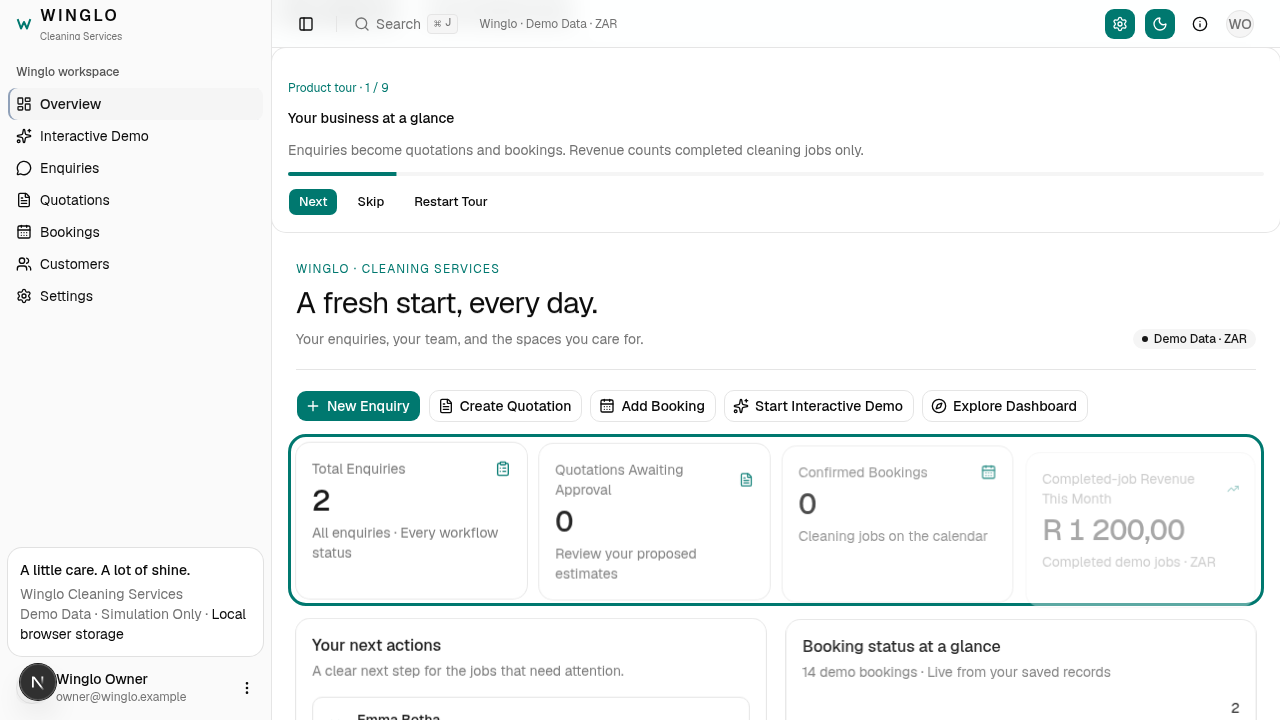
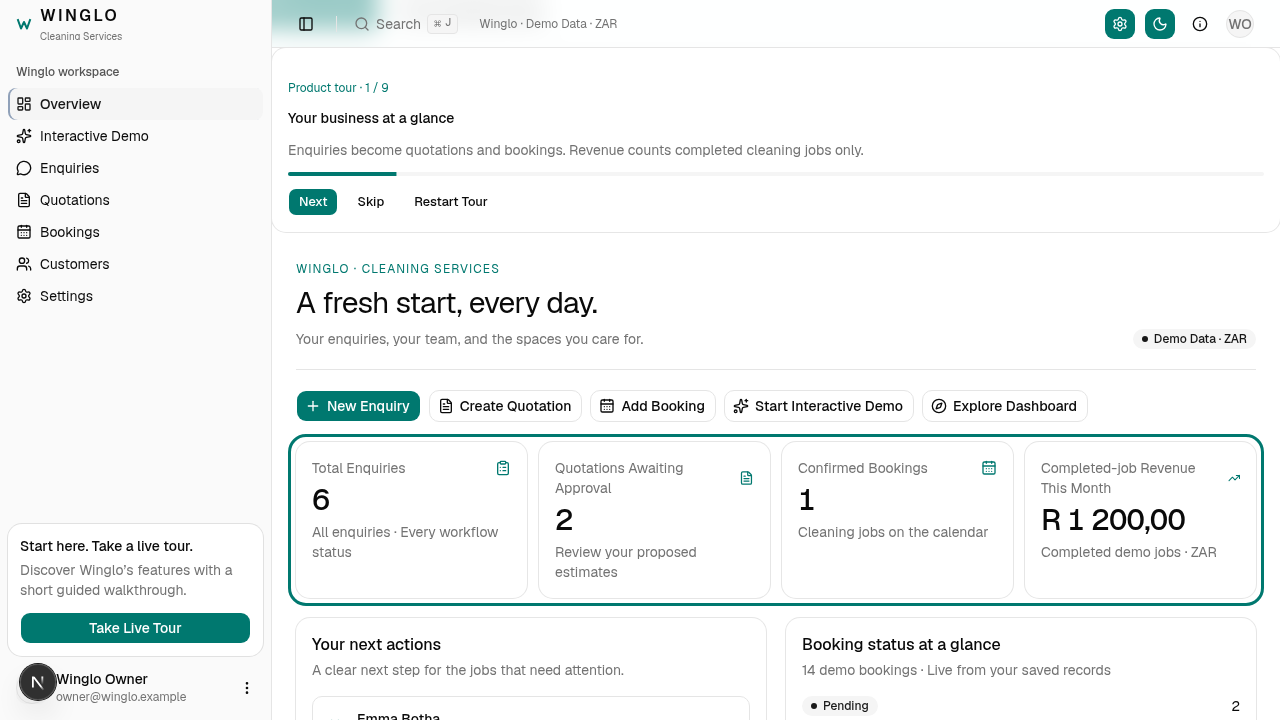
fix: emphasize live tour entry and keep tour above calendar

diff --git a/src/app/(main)/dashboard/_components/winglo/product-tour.tsx b/src/app/(main)/dashboard/_components/winglo/product-tour.tsx
@@ -65,7 +65,7 @@ const steps = [
     text: "Keep exploring, restart this tour or resume your interactive demo. Your business records are preserved.",
   },
 ];
-type Tour = { step: number; open: boolean; participating: boolean };
+type Tour = { step: number; open: boolean; participating: boolean; seen?: boolean };
 const initial: Tour = { step: 0, open: false, participating: false };
 export function ProductTour() {
   const [tour, setTour] = useState<Tour>(initial);
@@ -128,9 +128,18 @@ export function ProductTour() {
   }, [tour.open, tour.participating, pathname, step]);
   function go(index: number) {
     if (useDemo.getState().journey?.active) useDemo.getState().patchJourney({ minimized: true });
-    setTour({ step: index, open: true, participating: false });
+    setTour({ step: index, open: true, participating: false, seen: true });
     router.push(`/dashboard/${steps[index].route}`);
   }
+  useEffect(() => {
+    const open = () => {
+      if (useDemo.getState().journey?.active) useDemo.getState().patchJourney({ minimized: true });
+      setTour((current) => ({ ...current, open: true, seen: true, participating: false }));
+      router.push(`/dashboard/${steps[tour.step].route}`);
+    };
+    window.addEventListener("winglo:open-product-tour", open);
+    return () => window.removeEventListener("winglo:open-product-tour", open);
+  }, [router, tour.step]);
   function live() {
     useDemo.getState().startJourney();
     if (tour.open) setTour({ ...tour, step: 3, participating: true });
@@ -138,16 +147,37 @@ export function ProductTour() {
   }
   return (
     <>
-      <div className="mx-4 flex flex-wrap gap-2 py-2">
-        <Button size="sm" variant="outline" onClick={() => go(tour.step)}>
-          Take a Guided Tour
-        </Button>
-        <Button size="sm" variant="ghost" data-product-demo onClick={live}>
-          Try the Interactive Demo
-        </Button>
-      </div>
+      {loaded && !tour.seen && !tour.open && pathname === "/dashboard/default" ? (
+        <section className="mx-4 my-4" aria-label="Welcome to Winglo">
+          <Card>
+            <CardContent className="flex flex-col items-start gap-4 py-8">
+              <p className="text-primary text-xs font-medium tracking-widest uppercase">Welcome to Winglo</p>
+              <h1 className="text-3xl tracking-tight">Start with a live tour.</h1>
+              <p className="text-muted-foreground max-w-lg text-sm">
+                We’ll show you how enquiries, quotations, cleaning bookings and customer records fit together. Follow
+                the highlights at your own pace.
+              </p>
+              <Button className="min-h-12 px-6" onClick={() => go(0)}>
+                Take Live Tour
+              </Button>
+              <Button variant="ghost" size="sm" onClick={() => setTour({ ...tour, seen: true })}>
+                Explore dashboard instead
+              </Button>
+            </CardContent>
+          </Card>
+        </section>
+      ) : (
+        <div className="mx-4 flex flex-wrap gap-2 py-2">
+          <Button size="sm" onClick={() => go(tour.step)}>
+            Take Live Tour
+          </Button>
+          <Button size="sm" variant="ghost" data-product-demo onClick={live}>
+            Try the Interactive Demo
+          </Button>
+        </div>
+      )}
       {tour.open && (
-        <section data-product-tour aria-label="Product tour" className="sticky top-12 mx-4 mb-4">
+        <section data-product-tour aria-label="Product tour" className="sticky top-12 z-40 mx-4 mb-4">
           <Card>
             <CardContent
               className="flex flex-col gap-3 pt-4"

diff --git a/src/app/(main)/dashboard/_components/sidebar/support-card.tsx b/src/app/(main)/dashboard/_components/sidebar/support-card.tsx
@@ -1,14 +1,15 @@
+"use client";
+import { Button } from "@/components/ui/button";
 import { Card, CardDescription, CardHeader, CardTitle } from "@/components/ui/card";
 export function SupportCard() {
   return (
     <Card size="sm" className="group-data-[collapsible=icon]:hidden">
       <CardHeader>
-        <CardTitle className="text-sm">A little care. A lot of shine.</CardTitle>
-        <CardDescription>
-          Winglo Cleaning Services
-          <br />
-          Demo Data · Simulation Only · <span className="text-foreground">Local browser storage</span>
-        </CardDescription>
+        <CardTitle className="text-sm">Start here. Take a live tour.</CardTitle>
+        <CardDescription>Discover Winglo’s features with a short guided walkthrough.</CardDescription>
+        <Button className="mt-2 w-full" onClick={() => window.dispatchEvent(new Event("winglo:open-product-tour"))}>
+          Take Live Tour
+        </Button>
       </CardHeader>
     </Card>
   );

diff --git a/src/app/(main)/dashboard/layout.tsx b/src/app/(main)/dashboard/layout.tsx
@@ -74,7 +74,7 @@ export default async function Layout({ children }: Readonly<{ children: ReactNod
         </header>
         <ProductTour />
         {/* Pages can set data-content-padding="false" to render full-bleed app layouts. */}
-        <div className="min-h-0 min-w-0 flex-1 overflow-x-hidden p-4 has-data-[content-padding=false]:p-0 md:p-6 md:has-data-[content-padding=false]:p-0">
+        <div className="relative isolate z-0 min-h-0 min-w-0 flex-1 overflow-x-hidden p-4 has-data-[content-padding=false]:p-0 md:p-6 md:has-data-[content-padding=false]:p-0">
           <AnimatedPage>{children}</AnimatedPage>
         </div>
         <JourneyPanel />

diff --git a/README.md b/README.md
@@ -86,6 +86,8 @@ The original MIT notice remains in [LICENSE](LICENSE), with a distribution copy 
 
 ## Optional product tour
 
-**Take a Guided Tour** opens an independent tour of the real dashboard. **Try the Interactive Demo** opens the existing live workflow. The tour stores only its own position/visibility in `winglo-product-tour`; Back, Skip and Restart never reset business records or guided-demo progress. An optional live-demo step explains the handoff and lets you return to the product tour afterward. Missing targets show a fallback action; phone layouts wrap the compact controls, and tour scrolling respects reduced-motion preferences. The tour is never started automatically for a fresh visitor.
+**Take Live Tour** opens an independent tour of the real dashboard. **Try the Interactive Demo** opens the existing live workflow. The tour stores only its own position/visibility in `winglo-product-tour`; Back, Skip and Restart never reset business records or guided-demo progress. An optional live-demo step explains the handoff and lets you return to the product tour afterward. Missing targets show a fallback action; phone layouts wrap the compact controls, and tour scrolling respects reduced-motion preferences. The tour is never started automatically for a fresh visitor.
 
 Run `tests/browser/winglo-product-tour.cjs` with the same Playwright environment variables as the other browser suites.
+
+Fresh visitors see a prominent **Start with a live tour** welcome card. The left sidebar also provides **Take Live Tour**. After the tour is opened or the visitor chooses to explore, the large welcome prompt is dismissed locally. The tour stays above calendar content, whose stacking context is isolated so scheduling elements cannot hide Step 6 controls.
